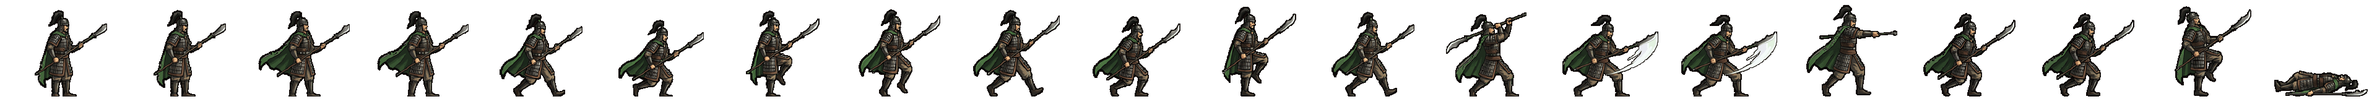
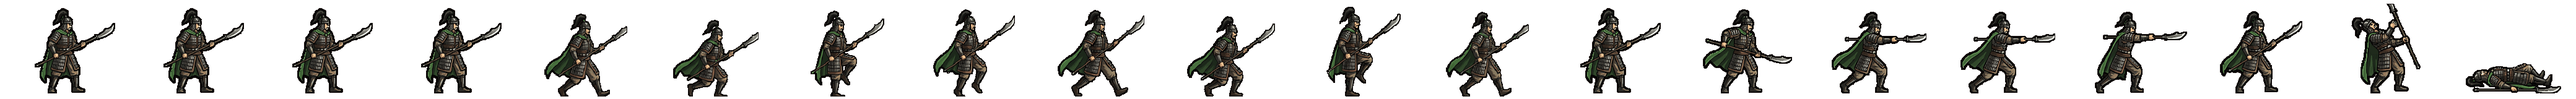
기본 창 장수 띠: 동작 8컷만 새로 굽고 갈아 끼움 — 창끝이 칸 오른쪽 끝에 잘리던 공격 15칸 해결 (splice-act.py · 걷기는 그대로)
Claude-Session: https://claude.ai/code/session_01TRiuN9kn81xgdziumEqNAF

diff --git a/src/realm/data/spritePx.ts b/src/realm/data/spritePx.ts
@@ -1,2 +1,2 @@
 /** public/realm/anim-px/manifest.json 의 사본 — tools/sprite-normalize.mjs 가 만든다 (손으로 고치지 말 것). 칸 [가로, 세로] · feet = 발 줄(칸 위에서 y) · bodyPx = 서 있는 몸 키 */
-export const SPRITE_PX: Readonly<Record<string, { readonly cell: readonly [number, number]; readonly feet: number; readonly bodyPx: number; readonly kind: 'general' | 'soldier' | 'folk' | 'crowd'; readonly cells: number }>> = {"axe":{"cell":[166,128],"feet":126,"bodyPx":124,"kind":"soldier","cells":20},"bandit-chief":{"cell":[116,128],"feet":126,"bodyPx":117,"kind":"soldier","cells":20},"bandit-club":{"cell":[127,128],"feet":126,"bodyPx":116,"kind":"soldier","cells":20},"boat":{"cell":[269,128],"feet":126,"bodyPx":126,"kind":"soldier","cells":20},"bow":{"cell":[503,128],"feet":126,"bodyPx":127,"kind":"soldier","cells":20},"crossbow":{"cell":[614,128],"feet":126,"bodyPx":126,"kind":"soldier","cells":20},"gen-adogan":{"cell":[144,160],"feet":156,"bodyPx":70,"kind":"general","cells":20},"gen-alpyeong":{"cell":[144,160],"feet":156,"bodyPx":70,"kind":"general","cells":20},"gen-ara":{"cell":[160,160],"feet":156,"bodyPx":70,"kind":"general","cells":20},"gen-areum":{"cell":[160,160],"feet":156,"bodyPx":70,"kind":"general","cells":20},"gen-aryeong":{"cell":[208,160],"feet":156,"bodyPx":70,"kind":"general","cells":20},"gen-bakdal":{"cell":[160,160],"feet":156,"bodyPx":70,"kind":"general","cells":20},"gen-baram":{"cell":[176,160],"feet":156,"bodyPx":70,"kind":"general","cells":20},"gen-bdanbi":{"cell":[152,160],"feet":156,"bodyPx":70,"kind":"general","cells":20},"gen-beom":{"cell":[168,160],"feet":156,"bodyPx":70,"kind":"general","cells":20},"gen-beombal":{"cell":[216,160],"feet":156,"bodyPx":70,"kind":"general","cells":20},"gen-beomi":{"cell":[160,160],"feet":156,"bodyPx":70,"kind":"general","cells":20},"gen-bira":{"cell":[176,160],"feet":156,"bodyPx":70,"kind":"general","cells":20},"gen-biryu":{"cell":[160,160],"feet":156,"bodyPx":73,"kind":"general","cells":20},"gen-budeul":{"cell":[248,160],"feet":156,"bodyPx":70,"kind":"general","cells":20},"gen-byeol":{"cell":[160,160],"feet":156,"bodyPx":70,"kind":"general","cells":20},"gen-daemusin":{"cell":[152,160],"feet":156,"bodyPx":70,"kind":"general","cells":20},"gen-daeso":{"cell":[176,160],"feet":156,"bodyPx":70,"kind":"general","cells":20},"gen-dallae2":{"cell":[168,160],"feet":156,"bodyPx":70,"kind":"general","cells":20},"gen-dalli":{"cell":[152,160],"feet":156,"bodyPx":70,"kind":"general","cells":20},"gen-damul":{"cell":[152,160],"feet":156,"bodyPx":70,"kind":"general","cells":20},"gen-danbi":{"cell":[152,160],"feet":156,"bodyPx":70,"kind":"general","cells":20},"gen-dangung":{"cell":[192,160],"feet":156,"bodyPx":70,"kind":"general","cells":20},"gen-darae":{"cell":[152,160],"feet":156,"bodyPx":70,"kind":"general","cells":20},"gen-dokmudeom":{"cell":[176,160],"feet":156,"bodyPx":70,"kind":"general","cells":20},"gen-duman":{"cell":[160,160],"feet":156,"bodyPx":70,"kind":"general","cells":20},"gen-eomni":{"cell":[160,160],"feet":156,"bodyPx":70,"kind":"general","cells":20},"gen-eureum":{"cell":[144,160],"feet":156,"bodyPx":70,"kind":"general","cells":20},"gen-g-bow":{"cell":[144,160],"feet":156,"bodyPx":70,"kind":"general","cells":20},"gen-g-spear":{"cell":[192,160],"feet":156,"bodyPx":70,"kind":"general","cells":20},"gen-g-sword":{"cell":[144,160],"feet":156,"bodyPx":70,"kind":"general","cells":20},"gen-gaennae":{"cell":[232,160],"feet":156,"bodyPx":70,"kind":"general","cells":20},"gen-gamsil":{"cell":[160,160],"feet":156,"bodyPx":70,"kind":"general","cells":20},"gen-gaon":{"cell":[152,160],"feet":156,"bodyPx":70,"kind":"general","cells":20},"gen-geota":{"cell":[192,160],"feet":156,"bodyPx":69,"kind":"general","cells":20},"gen-geumbawi":{"cell":[160,160],"feet":156,"bodyPx":70,"kind":"general","cells":20},"gen-geumha":{"cell":[192,160],"feet":156,"bodyPx":72,"kind":"general","cells":20},"gen-goeun":{"cell":[144,160],"feet":156,"bodyPx":70,"kind":"general","cells":20},"gen-gom":{"cell":[168,160],"feet":156,"bodyPx":70,"kind":"general","cells":20},"gen-gomok":{"cell":[152,160],"feet":156,"bodyPx":70,"kind":"general","cells":20},"gen-gureum":{"cell":[168,160],"feet":156,"bodyPx":70,"kind":"general","cells":20},"gen-guryema":{"cell":[152,160],"feet":156,"bodyPx":70,"kind":"general","cells":20},"gen-gwaeyu":{"cell":[200,160],"feet":156,"bodyPx":70,"kind":"general","cells":20},"gen-haebi":{"cell":[152,160],"feet":156,"bodyPx":70,"kind":"general","cells":20},"gen-haedal":{"cell":[152,160],"feet":156,"bodyPx":70,"kind":"general","cells":20},"gen-haesol":{"cell":[168,160],"feet":156,"bodyPx":70,"kind":"general","cells":20},"gen-halla":{"cell":[176,160],"feet":156,"bodyPx":70,"kind":"general","cells":20},"gen-heo":{"cell":[144,160],"feet":156,"bodyPx":70,"kind":"general","cells":20},"gen-hneoul":{"cell":[152,160],"feet":156,"bodyPx":70,"kind":"general","cells":20},"gen-hogong":{"cell":[160,160],"feet":156,"bodyPx":70,"kind":"general","cells":20},"gen-hojin":{"cell":[152,160],"feet":156,"bodyPx":70,"kind":"general","cells":20},"gen-horselord":{"cell":[144,160],"feet":156,"bodyPx":70,"kind":"general","cells":20},"gen-hwalmi":{"cell":[192,160],"feet":156,"bodyPx":70,"kind":"general","cells":20},"gen-hyeokgeose":{"cell":[160,160],"feet":156,"bodyPx":70,"kind":"general","cells":20},"gen-hyeopbo":{"cell":[168,160],"feet":156,"bodyPx":70,"kind":"general","cells":20},"gen-irang":{"cell":[160,160],"feet":156,"bodyPx":70,"kind":"general","cells":20},"gen-jibaekho":{"cell":[160,160],"feet":156,"bodyPx":70,"kind":"general","cells":20},"gen-jinha":{"cell":[168,160],"feet":156,"bodyPx":70,"kind":"general","cells":20},"gen-jita":{"cell":[144,160],"feet":156,"bodyPx":70,"kind":"general","cells":20},"gen-jumong":{"cell":[144,160],"feet":156,"bodyPx":70,"kind":"general","cells":20},"gen-keundol":{"cell":[152,160],"feet":156,"bodyPx":70,"kind":"general","cells":20},"gen-maehwa":{"cell":[144,160],"feet":156,"bodyPx":70,"kind":"general","cells":20},"gen-maenun":{"cell":[136,160],"feet":156,"bodyPx":70,"kind":"general","cells":20},"gen-malgalgi":{"cell":[168,160],"feet":156,"bodyPx":70,"kind":"general","cells":20},"gen-mari":{"cell":[152,160],"feet":156,"bodyPx":70,"kind":"general","cells":20},"gen-maro":{"cell":[160,160],"feet":156,"bodyPx":70,"kind":"general","cells":20},"gen-maryeo":{"cell":[152,160],"feet":156,"bodyPx":70,"kind":"general","cells":20},"gen-mdallae":{"cell":[168,160],"feet":156,"bodyPx":70,"kind":"general","cells":20},"gen-mir":{"cell":[144,160],"feet":156,"bodyPx":70,"kind":"general","cells":20},"gen-mount":{"cell":[232,160],"feet":156,"bodyPx":73,"kind":"general","cells":20},"gen-mulbeom":{"cell":[160,160],"feet":156,"bodyPx":70,"kind":"general","cells":20},"gen-mulsae":{"cell":[168,160],"feet":156,"bodyPx":70,"kind":"general","cells":20},"gen-musoe":{"cell":[152,160],"feet":156,"bodyPx":70,"kind":"general","cells":20},"gen-noeul":{"cell":[160,160],"feet":156,"bodyPx":70,"kind":"general","cells":20},"gen-nuri":{"cell":[168,160],"feet":156,"bodyPx":70,"kind":"general","cells":20},"gen-ocheongan":{"cell":[168,160],"feet":156,"bodyPx":70,"kind":"general","cells":20},"gen-odi":{"cell":[152,160],"feet":156,"bodyPx":70,"kind":"general","cells":20},"gen-odogan":{"cell":[168,160],"feet":156,"bodyPx":70,"kind":"general","cells":20},"gen-ogan":{"cell":[168,160],"feet":156,"bodyPx":70,"kind":"general","cells":20},"gen-oi":{"cell":[152,160],"feet":156,"bodyPx":70,"kind":"general","cells":20},"gen-olddaeso":{"cell":[144,160],"feet":156,"bodyPx":70,"kind":"general","cells":20},"gen-onjo":{"cell":[152,160],"feet":156,"bodyPx":70,"kind":"general","cells":20},"gen-pidogan":{"cell":[152,160],"feet":156,"bodyPx":70,"kind":"general","cells":20},"gen-sagong":{"cell":[160,160],"feet":156,"bodyPx":70,"kind":"general","cells":20},"gen-sdallae":{"cell":[168,160],"feet":156,"bodyPx":70,"kind":"general","cells":20},"gen-sincheongan":{"cell":[160,160],"feet":156,"bodyPx":70,"kind":"general","cells":20},"gen-singwigan":{"cell":[208,160],"feet":156,"bodyPx":70,"kind":"general","cells":20},"gen-sinneoul":{"cell":[176,160],"feet":156,"bodyPx":70,"kind":"general","cells":20},"gen-sobeol":{"cell":[152,160],"feet":156,"bodyPx":70,"kind":"general","cells":20},"gen-soebi":{"cell":[160,160],"feet":156,"bodyPx":70,"kind":"general","cells":20},"gen-soebo":{"cell":[208,160],"feet":156,"bodyPx":72,"kind":"general","cells":20},"gen-soenun":{"cell":[248,160],"feet":156,"bodyPx":70,"kind":"general","cells":20},"gen-sogeumbi":{"cell":[192,160],"feet":156,"bodyPx":70,"kind":"general","cells":20},"gen-songbi":{"cell":[152,160],"feet":156,"bodyPx":70,"kind":"general","cells":20},"gen-songyang":{"cell":[136,160],"feet":156,"bodyPx":70,"kind":"general","cells":20},"gen-sori":{"cell":[208,160],"feet":156,"bodyPx":70,"kind":"general","cells":20},"gen-soseono":{"cell":[208,160],"feet":156,"bodyPx":70,"kind":"general","cells":20},"gen-suro":{"cell":[160,160],"feet":156,"bodyPx":70,"kind":"general","cells":20},"gen-tahae":{"cell":[152,160],"feet":156,"bodyPx":70,"kind":"general","cells":20},"gen-tneoul":{"cell":[152,160],"feet":156,"bodyPx":70,"kind":"general","cells":20},"gen-w-bow":{"cell":[128,160],"feet":156,"bodyPx":70,"kind":"general","cells":20},"gen-w-spear":{"cell":[176,160],"feet":156,"bodyPx":70,"kind":"general","cells":20},"gen-waechief":{"cell":[152,160],"feet":156,"bodyPx":70,"kind":"general","cells":20},"gen-wan":{"cell":[144,160],"feet":156,"bodyPx":70,"kind":"general","cells":20},"gen-yeodogan":{"cell":[176,160],"feet":156,"bodyPx":70,"kind":"general","cells":20},"gen-yucheongan":{"cell":[152,160],"feet":156,"bodyPx":70,"kind":"general","cells":20},"gen-yusugan":{"cell":[168,160],"feet":156,"bodyPx":70,"kind":"general","cells":20},"horse":{"cell":[186,128],"feet":126,"bodyPx":127,"kind":"soldier","cells":20},"marine":{"cell":[298,128],"feet":126,"bodyPx":126,"kind":"soldier","cells":20},"migrant":{"cell":[82,128],"feet":126,"bodyPx":114,"kind":"folk","cells":8},"militia":{"cell":[134,128],"feet":126,"bodyPx":119,"kind":"soldier","cells":20},"pike":{"cell":[380,128],"feet":126,"bodyPx":124,"kind":"soldier","cells":20},"pirate-captain":{"cell":[114,128],"feet":126,"bodyPx":115,"kind":"soldier","cells":20},"pirate-sword":{"cell":[122,128],"feet":126,"bodyPx":114,"kind":"soldier","cells":20},"shield":{"cell":[254,128],"feet":126,"bodyPx":128,"kind":"soldier","cells":20},"spear":{"cell":[438,128],"feet":126,"bodyPx":126,"kind":"soldier","cells":20},"villager-builder":{"cell":[88,128],"feet":126,"bodyPx":113,"kind":"folk","cells":8},"villager-farmer":{"cell":[100,128],"feet":126,"bodyPx":115,"kind":"folk","cells":8},"villager-porter":{"cell":[108,128],"feet":126,"bodyPx":115,"kind":"folk","cells":8},"villager-woman":{"cell":[63,128],"feet":126,"bodyPx":113,"kind":"folk","cells":8},"crowd-b1":{"cell":[69,96],"feet":96,"bodyPx":96,"kind":"crowd","cells":1},"crowd-b2":{"cell":[54,96],"feet":96,"bodyPx":96,"kind":"crowd","cells":1},"crowd-b3":{"cell":[47,96],"feet":96,"bodyPx":96,"kind":"crowd","cells":1},"crowd-b4":{"cell":[49,96],"feet":96,"bodyPx":96,"kind":"crowd","cells":1},"crowd-b5":{"cell":[57,96],"feet":96,"bodyPx":96,"kind":"crowd","cells":1},"crowd-b6":{"cell":[55,96],"feet":96,"bodyPx":96,"kind":"crowd","cells":1},"crowd-f1":{"cell":[69,96],"feet":96,"bodyPx":96,"kind":"crowd","cells":1},"crowd-f2":{"cell":[55,96],"feet":96,"bodyPx":96,"kind":"crowd","cells":1},"crowd-f3":{"cell":[45,96],"feet":96,"bodyPx":96,"kind":"crowd","cells":1},"crowd-f4":{"cell":[53,96],"feet":96,"bodyPx":96,"kind":"crowd","cells":1},"crowd-f5":{"cell":[69,96],"feet":96,"bodyPx":96,"kind":"crowd","cells":1},"crowd-f6":{"cell":[64,96],"feet":96,"bodyPx":96,"kind":"crowd","cells":1},"gen-dalbit":{"cell":[96,72],"feet":72,"bodyPx":72,"kind":"general","cells":20}}
+export const SPRITE_PX: Readonly<Record<string, { readonly cell: readonly [number, number]; readonly feet: number; readonly bodyPx: number; readonly kind: 'general' | 'soldier' | 'folk' | 'crowd'; readonly cells: number }>> = {"axe":{"cell":[166,128],"feet":126,"bodyPx":124,"kind":"soldier","cells":20},"bandit-chief":{"cell":[116,128],"feet":126,"bodyPx":117,"kind":"soldier","cells":20},"bandit-club":{"cell":[127,128],"feet":126,"bodyPx":116,"kind":"soldier","cells":20},"boat":{"cell":[269,128],"feet":126,"bodyPx":126,"kind":"soldier","cells":20},"bow":{"cell":[503,128],"feet":126,"bodyPx":127,"kind":"soldier","cells":20},"crossbow":{"cell":[614,128],"feet":126,"bodyPx":126,"kind":"soldier","cells":20},"gen-adogan":{"cell":[144,160],"feet":156,"bodyPx":70,"kind":"general","cells":20},"gen-alpyeong":{"cell":[144,160],"feet":156,"bodyPx":70,"kind":"general","cells":20},"gen-ara":{"cell":[160,160],"feet":156,"bodyPx":70,"kind":"general","cells":20},"gen-areum":{"cell":[160,160],"feet":156,"bodyPx":70,"kind":"general","cells":20},"gen-aryeong":{"cell":[208,160],"feet":156,"bodyPx":70,"kind":"general","cells":20},"gen-bakdal":{"cell":[160,160],"feet":156,"bodyPx":70,"kind":"general","cells":20},"gen-baram":{"cell":[176,160],"feet":156,"bodyPx":70,"kind":"general","cells":20},"gen-bdanbi":{"cell":[152,160],"feet":156,"bodyPx":70,"kind":"general","cells":20},"gen-beom":{"cell":[168,160],"feet":156,"bodyPx":70,"kind":"general","cells":20},"gen-beombal":{"cell":[216,160],"feet":156,"bodyPx":70,"kind":"general","cells":20},"gen-beomi":{"cell":[160,160],"feet":156,"bodyPx":70,"kind":"general","cells":20},"gen-bira":{"cell":[176,160],"feet":156,"bodyPx":70,"kind":"general","cells":20},"gen-biryu":{"cell":[160,160],"feet":156,"bodyPx":73,"kind":"general","cells":20},"gen-budeul":{"cell":[248,160],"feet":156,"bodyPx":70,"kind":"general","cells":20},"gen-byeol":{"cell":[160,160],"feet":156,"bodyPx":70,"kind":"general","cells":20},"gen-daemusin":{"cell":[152,160],"feet":156,"bodyPx":70,"kind":"general","cells":20},"gen-daeso":{"cell":[176,160],"feet":156,"bodyPx":70,"kind":"general","cells":20},"gen-dallae2":{"cell":[168,160],"feet":156,"bodyPx":70,"kind":"general","cells":20},"gen-dalli":{"cell":[152,160],"feet":156,"bodyPx":70,"kind":"general","cells":20},"gen-damul":{"cell":[152,160],"feet":156,"bodyPx":70,"kind":"general","cells":20},"gen-danbi":{"cell":[152,160],"feet":156,"bodyPx":70,"kind":"general","cells":20},"gen-dangung":{"cell":[192,160],"feet":156,"bodyPx":70,"kind":"general","cells":20},"gen-darae":{"cell":[152,160],"feet":156,"bodyPx":70,"kind":"general","cells":20},"gen-dokmudeom":{"cell":[176,160],"feet":156,"bodyPx":70,"kind":"general","cells":20},"gen-duman":{"cell":[160,160],"feet":156,"bodyPx":70,"kind":"general","cells":20},"gen-eomni":{"cell":[160,160],"feet":156,"bodyPx":70,"kind":"general","cells":20},"gen-eureum":{"cell":[144,160],"feet":156,"bodyPx":70,"kind":"general","cells":20},"gen-g-bow":{"cell":[144,160],"feet":156,"bodyPx":70,"kind":"general","cells":20},"gen-g-spear":{"cell":[208,160],"feet":156,"bodyPx":70,"kind":"general","cells":20},"gen-g-sword":{"cell":[144,160],"feet":156,"bodyPx":70,"kind":"general","cells":20},"gen-gaennae":{"cell":[232,160],"feet":156,"bodyPx":70,"kind":"general","cells":20},"gen-gamsil":{"cell":[160,160],"feet":156,"bodyPx":70,"kind":"general","cells":20},"gen-gaon":{"cell":[152,160],"feet":156,"bodyPx":70,"kind":"general","cells":20},"gen-geota":{"cell":[192,160],"feet":156,"bodyPx":69,"kind":"general","cells":20},"gen-geumbawi":{"cell":[160,160],"feet":156,"bodyPx":70,"kind":"general","cells":20},"gen-geumha":{"cell":[192,160],"feet":156,"bodyPx":72,"kind":"general","cells":20},"gen-goeun":{"cell":[144,160],"feet":156,"bodyPx":70,"kind":"general","cells":20},"gen-gom":{"cell":[168,160],"feet":156,"bodyPx":70,"kind":"general","cells":20},"gen-gomok":{"cell":[152,160],"feet":156,"bodyPx":70,"kind":"general","cells":20},"gen-gureum":{"cell":[168,160],"feet":156,"bodyPx":70,"kind":"general","cells":20},"gen-guryema":{"cell":[152,160],"feet":156,"bodyPx":70,"kind":"general","cells":20},"gen-gwaeyu":{"cell":[200,160],"feet":156,"bodyPx":70,"kind":"general","cells":20},"gen-haebi":{"cell":[152,160],"feet":156,"bodyPx":70,"kind":"general","cells":20},"gen-haedal":{"cell":[152,160],"feet":156,"bodyPx":70,"kind":"general","cells":20},"gen-haesol":{"cell":[168,160],"feet":156,"bodyPx":70,"kind":"general","cells":20},"gen-halla":{"cell":[176,160],"feet":156,"bodyPx":70,"kind":"general","cells":20},"gen-heo":{"cell":[144,160],"feet":156,"bodyPx":70,"kind":"general","cells":20},"gen-hneoul":{"cell":[152,160],"feet":156,"bodyPx":70,"kind":"general","cells":20},"gen-hogong":{"cell":[160,160],"feet":156,"bodyPx":70,"kind":"general","cells":20},"gen-hojin":{"cell":[152,160],"feet":156,"bodyPx":70,"kind":"general","cells":20},"gen-horselord":{"cell":[144,160],"feet":156,"bodyPx":70,"kind":"general","cells":20},"gen-hwalmi":{"cell":[192,160],"feet":156,"bodyPx":70,"kind":"general","cells":20},"gen-hyeokgeose":{"cell":[160,160],"feet":156,"bodyPx":70,"kind":"general","cells":20},"gen-hyeopbo":{"cell":[168,160],"feet":156,"bodyPx":70,"kind":"general","cells":20},"gen-irang":{"cell":[160,160],"feet":156,"bodyPx":70,"kind":"general","cells":20},"gen-jibaekho":{"cell":[160,160],"feet":156,"bodyPx":70,"kind":"general","cells":20},"gen-jinha":{"cell":[168,160],"feet":156,"bodyPx":70,"kind":"general","cells":20},"gen-jita":{"cell":[144,160],"feet":156,"bodyPx":70,"kind":"general","cells":20},"gen-jumong":{"cell":[144,160],"feet":156,"bodyPx":70,"kind":"general","cells":20},"gen-keundol":{"cell":[152,160],"feet":156,"bodyPx":70,"kind":"general","cells":20},"gen-maehwa":{"cell":[144,160],"feet":156,"bodyPx":70,"kind":"general","cells":20},"gen-maenun":{"cell":[136,160],"feet":156,"bodyPx":70,"kind":"general","cells":20},"gen-malgalgi":{"cell":[168,160],"feet":156,"bodyPx":70,"kind":"general","cells":20},"gen-mari":{"cell":[152,160],"feet":156,"bodyPx":70,"kind":"general","cells":20},"gen-maro":{"cell":[160,160],"feet":156,"bodyPx":70,"kind":"general","cells":20},"gen-maryeo":{"cell":[152,160],"feet":156,"bodyPx":70,"kind":"general","cells":20},"gen-mdallae":{"cell":[168,160],"feet":156,"bodyPx":70,"kind":"general","cells":20},"gen-mir":{"cell":[144,160],"feet":156,"bodyPx":70,"kind":"general","cells":20},"gen-mount":{"cell":[232,160],"feet":156,"bodyPx":73,"kind":"general","cells":20},"gen-mulbeom":{"cell":[160,160],"feet":156,"bodyPx":70,"kind":"general","cells":20},"gen-mulsae":{"cell":[168,160],"feet":156,"bodyPx":70,"kind":"general","cells":20},"gen-musoe":{"cell":[152,160],"feet":156,"bodyPx":70,"kind":"general","cells":20},"gen-noeul":{"cell":[160,160],"feet":156,"bodyPx":70,"kind":"general","cells":20},"gen-nuri":{"cell":[168,160],"feet":156,"bodyPx":70,"kind":"general","cells":20},"gen-ocheongan":{"cell":[168,160],"feet":156,"bodyPx":70,"kind":"general","cells":20},"gen-odi":{"cell":[152,160],"feet":156,"bodyPx":70,"kind":"general","cells":20},"gen-odogan":{"cell":[168,160],"feet":156,"bodyPx":70,"kind":"general","cells":20},"gen-ogan":{"cell":[168,160],"feet":156,"bodyPx":70,"kind":"general","cells":20},"gen-oi":{"cell":[152,160],"feet":156,"bodyPx":70,"kind":"general","cells":20},"gen-olddaeso":{"cell":[144,160],"feet":156,"bodyPx":70,"kind":"general","cells":20},"gen-onjo":{"cell":[152,160],"feet":156,"bodyPx":70,"kind":"general","cells":20},"gen-pidogan":{"cell":[152,160],"feet":156,"bodyPx":70,"kind":"general","cells":20},"gen-sagong":{"cell":[160,160],"feet":156,"bodyPx":70,"kind":"general","cells":20},"gen-sdallae":{"cell":[168,160],"feet":156,"bodyPx":70,"kind":"general","cells":20},"gen-sincheongan":{"cell":[160,160],"feet":156,"bodyPx":70,"kind":"general","cells":20},"gen-singwigan":{"cell":[208,160],"feet":156,"bodyPx":70,"kind":"general","cells":20},"gen-sinneoul":{"cell":[176,160],"feet":156,"bodyPx":70,"kind":"general","cells":20},"gen-sobeol":{"cell":[152,160],"feet":156,"bodyPx":70,"kind":"general","cells":20},"gen-soebi":{"cell":[160,160],"feet":156,"bodyPx":70,"kind":"general","cells":20},"gen-soebo":{"cell":[208,160],"feet":156,"bodyPx":72,"kind":"general","cells":20},"gen-soenun":{"cell":[248,160],"feet":156,"bodyPx":70,"kind":"general","cells":20},"gen-sogeumbi":{"cell":[192,160],"feet":156,"bodyPx":70,"kind":"general","cells":20},"gen-songbi":{"cell":[152,160],"feet":156,"bodyPx":70,"kind":"general","cells":20},"gen-songyang":{"cell":[136,160],"feet":156,"bodyPx":70,"kind":"general","cells":20},"gen-sori":{"cell":[208,160],"feet":156,"bodyPx":70,"kind":"general","cells":20},"gen-soseono":{"cell":[208,160],"feet":156,"bodyPx":70,"kind":"general","cells":20},"gen-suro":{"cell":[160,160],"feet":156,"bodyPx":70,"kind":"general","cells":20},"gen-tahae":{"cell":[152,160],"feet":156,"bodyPx":70,"kind":"general","cells":20},"gen-tneoul":{"cell":[152,160],"feet":156,"bodyPx":70,"kind":"general","cells":20},"gen-w-bow":{"cell":[128,160],"feet":156,"bodyPx":70,"kind":"general","cells":20},"gen-w-spear":{"cell":[176,160],"feet":156,"bodyPx":70,"kind":"general","cells":20},"gen-waechief":{"cell":[152,160],"feet":156,"bodyPx":70,"kind":"general","cells":20},"gen-wan":{"cell":[144,160],"feet":156,"bodyPx":70,"kind":"general","cells":20},"gen-yeodogan":{"cell":[176,160],"feet":156,"bodyPx":70,"kind":"general","cells":20},"gen-yucheongan":{"cell":[152,160],"feet":156,"bodyPx":70,"kind":"general","cells":20},"gen-yusugan":{"cell":[168,160],"feet":156,"bodyPx":70,"kind":"general","cells":20},"horse":{"cell":[186,128],"feet":126,"bodyPx":127,"kind":"soldier","cells":20},"marine":{"cell":[298,128],"feet":126,"bodyPx":126,"kind":"soldier","cells":20},"migrant":{"cell":[82,128],"feet":126,"bodyPx":114,"kind":"folk","cells":8},"militia":{"cell":[134,128],"feet":126,"bodyPx":119,"kind":"soldier","cells":20},"pike":{"cell":[380,128],"feet":126,"bodyPx":124,"kind":"soldier","cells":20},"pirate-captain":{"cell":[114,128],"feet":126,"bodyPx":115,"kind":"soldier","cells":20},"pirate-sword":{"cell":[122,128],"feet":126,"bodyPx":114,"kind":"soldier","cells":20},"shield":{"cell":[254,128],"feet":126,"bodyPx":128,"kind":"soldier","cells":20},"spear":{"cell":[438,128],"feet":126,"bodyPx":126,"kind":"soldier","cells":20},"villager-builder":{"cell":[88,128],"feet":126,"bodyPx":113,"kind":"folk","cells":8},"villager-farmer":{"cell":[100,128],"feet":126,"bodyPx":115,"kind":"folk","cells":8},"villager-porter":{"cell":[108,128],"feet":126,"bodyPx":115,"kind":"folk","cells":8},"villager-woman":{"cell":[63,128],"feet":126,"bodyPx":113,"kind":"folk","cells":8},"crowd-b1":{"cell":[69,96],"feet":96,"bodyPx":96,"kind":"crowd","cells":1},"crowd-b2":{"cell":[54,96],"feet":96,"bodyPx":96,"kind":"crowd","cells":1},"crowd-b3":{"cell":[47,96],"feet":96,"bodyPx":96,"kind":"crowd","cells":1},"crowd-b4":{"cell":[49,96],"feet":96,"bodyPx":96,"kind":"crowd","cells":1},"crowd-b5":{"cell":[57,96],"feet":96,"bodyPx":96,"kind":"crowd","cells":1},"crowd-b6":{"cell":[55,96],"feet":96,"bodyPx":96,"kind":"crowd","cells":1},"crowd-f1":{"cell":[69,96],"feet":96,"bodyPx":96,"kind":"crowd","cells":1},"crowd-f2":{"cell":[55,96],"feet":96,"bodyPx":96,"kind":"crowd","cells":1},"crowd-f3":{"cell":[45,96],"feet":96,"bodyPx":96,"kind":"crowd","cells":1},"crowd-f4":{"cell":[53,96],"feet":96,"bodyPx":96,"kind":"crowd","cells":1},"crowd-f5":{"cell":[69,96],"feet":96,"bodyPx":96,"kind":"crowd","cells":1},"crowd-f6":{"cell":[64,96],"feet":96,"bodyPx":96,"kind":"crowd","cells":1},"gen-dalbit":{"cell":[96,72],"feet":72,"bodyPx":72,"kind":"general","cells":20}}

diff --git a/src/realm/data/art.ts b/src/realm/data/art.ts
@@ -470,7 +470,7 @@ export type GenSprite = 'g-sword' | 'g-bow' | 'g-spear' | 'w-spear' | 'w-bow' | 
 export const GEN_ANIM: Readonly<Partial<Record<string, { ar: number; body: number; bow?: true; mount?: true }>>> = {
   'g-sword': { ar: 150 / 160, body: 0.948 }, // 11-03 걷기가 한 자세라 20컷 통째로 다시 (제미나이 4 Argon · tools/assemble-gen20.mjs)
   'g-bow': { ar: 149 / 160, body: 0.948, bow: true }, // 11-03 20컷 다시 (걷기가 한 자세였다)
-  'g-spear': { ar: 189 / 160, body: 0.914 }, // 11-03 20컷 다시 (걷기가 한 자세였다)
+  'g-spear': { ar: 215 / 160, body: 0.925 }, // 11-03 20컷 다시 (걷기가 한 자세였다) · 11-11 동작 8컷만 새로(창끝이 칸 오른쪽 끝에 잘림)
   'w-spear': { ar: 180 / 160, body: 0.934 }, // 11-04 우하단 두 컷(걷기 8 · 쓰러짐)을 별표 없는 장으로 갈아 끼움
   'w-bow': { ar: 140 / 160, body: 0.968, bow: true }, // 11-10 bow 빠져 있어 여궁수가 적 코앞까지 달려가 쐈다(형: 활 쏘는 장수는 제자리에서) · 11-04 우하단 두 컷(걷기 8 · 쓰러짐)을 별표 없는 장으로 갈아 끼움
   mount: { ar: 246 / 160, body: 0.968, mount: true },

diff --git a/src/ui/realm/battle-strikes.ts b/src/ui/realm/battle-strikes.ts
@@ -137,7 +137,7 @@ const CONTACT: Readonly<Record<string, [number, number, number]>> = {
   spear: [15, .99, .35], shield: [15, .99, .36], pike: [15, .99, .34],
   axe: [15, .89, .47], horse: [16, .98, .23], boat: [16, .88, .57],
   marine: [15, .99, .40], militia: [14, .98, .33],
-  'gen-g-spear': [15, .99, .32], 'gen-g-sword': [16, .99, .33], 'gen-w-spear': [14, .98, .56],
+  'gen-g-spear': [15, .97, .35], 'gen-g-sword': [16, .99, .33], 'gen-w-spear': [14, .98, .56],
   'gen-mount': [15, .98, .22], 'gen-ara': [14, 0.91, 0.65], 'gen-aryeong': [14, 0.99, 0.34],
   'gen-daeso': [14, 0.95, 0.34], 'gen-eureum': [14, .95, .13], 'gen-gamsil': [14, 0.94, 0.76],
   'gen-haebi': [14, 0.87, 0.73], 'gen-heo': [14, 0.94, 0.46], 'gen-hyeokgeose': [14, 0.83, 0.94],

diff --git a/tools/sprite-kit/splice-act.py b/tools/sprite-kit/splice-act.py
@@ -1,0 +1,33 @@
+"""splice-act.py <strip name> <새 동작 8컷 띠> [amap] — 이미 있는 20컷 띠(public/realm/anim2/<name>.png)의 걷기(4~11)는 두고
+서기(0~3)·공격(12~17)·맞음(18)·쓰러짐(19)만 새 동작 띠로 갈아 끼운다 (11-11 칸 끝에 잘린 칸 다시 굽기).
+새 동작 띠에는 defringe-green + gen-outline 을 먼저 걸고, 옛 띠는 assets_src/realm/retired/anim2/<name>@20261111.png 에 남긴다.
+  예: py -3 -X utf8 tools/sprite-kit/splice-act.py gen-g-spear tools/out/redo/gspear-act-strip.png"""
+import importlib.util, shutil, subprocess, sys, tempfile, os
+from pathlib import Path
+from PIL import Image
+
+name, act = sys.argv[1], sys.argv[2]
+amap = sys.argv[3] if len(sys.argv) > 3 else ''
+cur = Path(f'public/realm/anim2/{name}.png')
+keep = Path(f'assets_src/realm/retired/anim2/{name}@20261111.png')
+keep.parent.mkdir(parents=True, exist_ok=True)
+if not keep.exists():
+    shutil.copy2(cur, keep)
+
+def load(p, n):
+    s = importlib.util.spec_from_file_location(n, p); m = importlib.util.module_from_spec(s); s.loader.exec_module(m); return m
+
+tmp = Path(tempfile.mkdtemp())
+a2 = tmp / 'act.png'
+shutil.copy2(act, a2)
+d = load('tools/defringe-green.py', 'dg'); d.BACKUP = tmp / 'bk'; d.defringe(a2, False)
+o = load('tools/gen-outline.py', 'go'); o.outline(Image.open(a2)).save(a2)
+old = Image.open(keep).convert('RGBA'); cw = old.width // 20
+walk = Image.new('RGBA', (cw * 8, 160))
+for i in range(8):
+    walk.alpha_composite(old.crop(((4 + i) * cw, 0, (5 + i) * cw, 160)), (i * cw, 0))
+w = tmp / 'walk.png'; walk.save(w)
+out = tmp / 'out.png'
+subprocess.run([sys.executable, 'tools/sprite-kit/compose20.py', str(w), str(a2), str(out), amap], check=True)
+shutil.copy2(out, cur)
+print('spliced', name, Image.open(cur).size)
